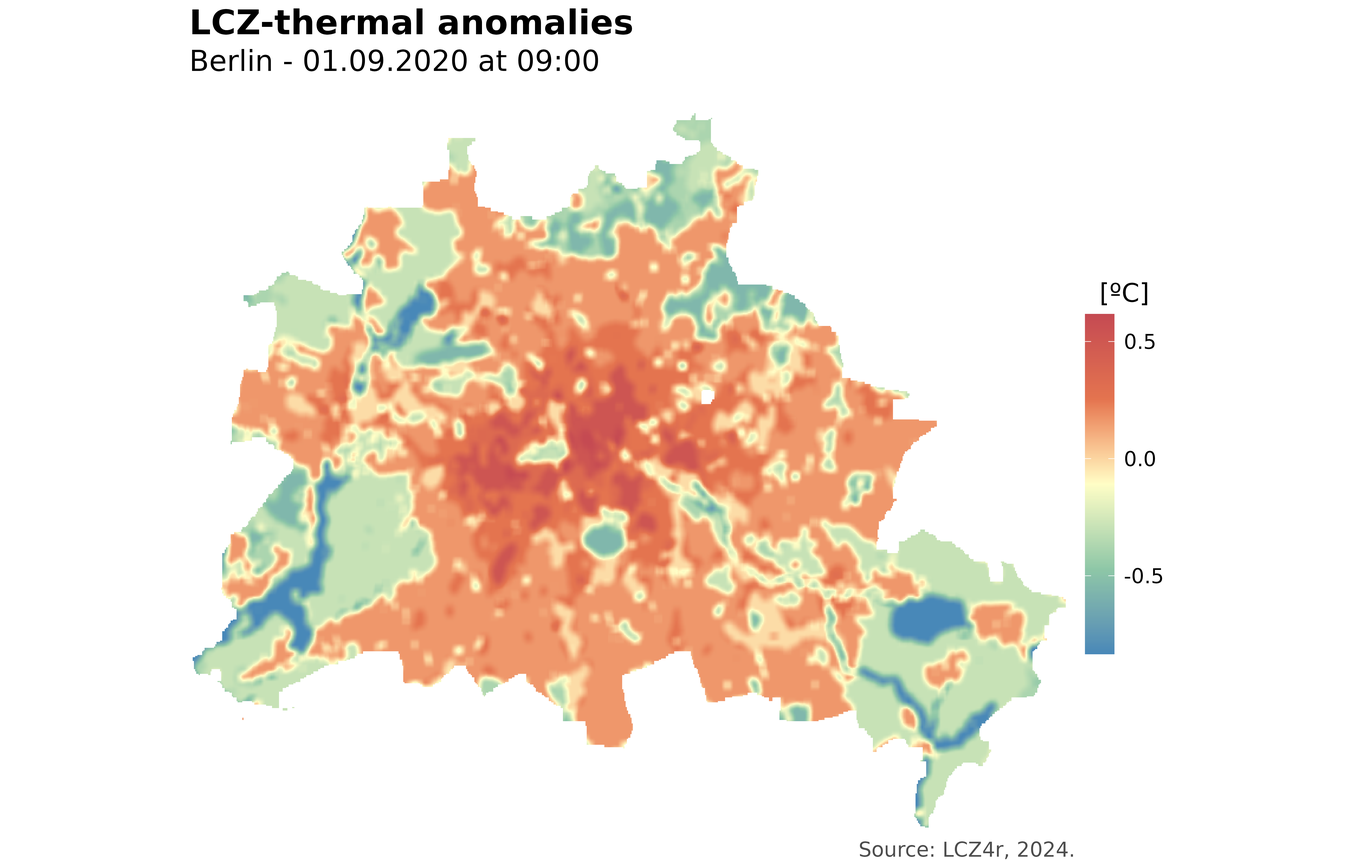
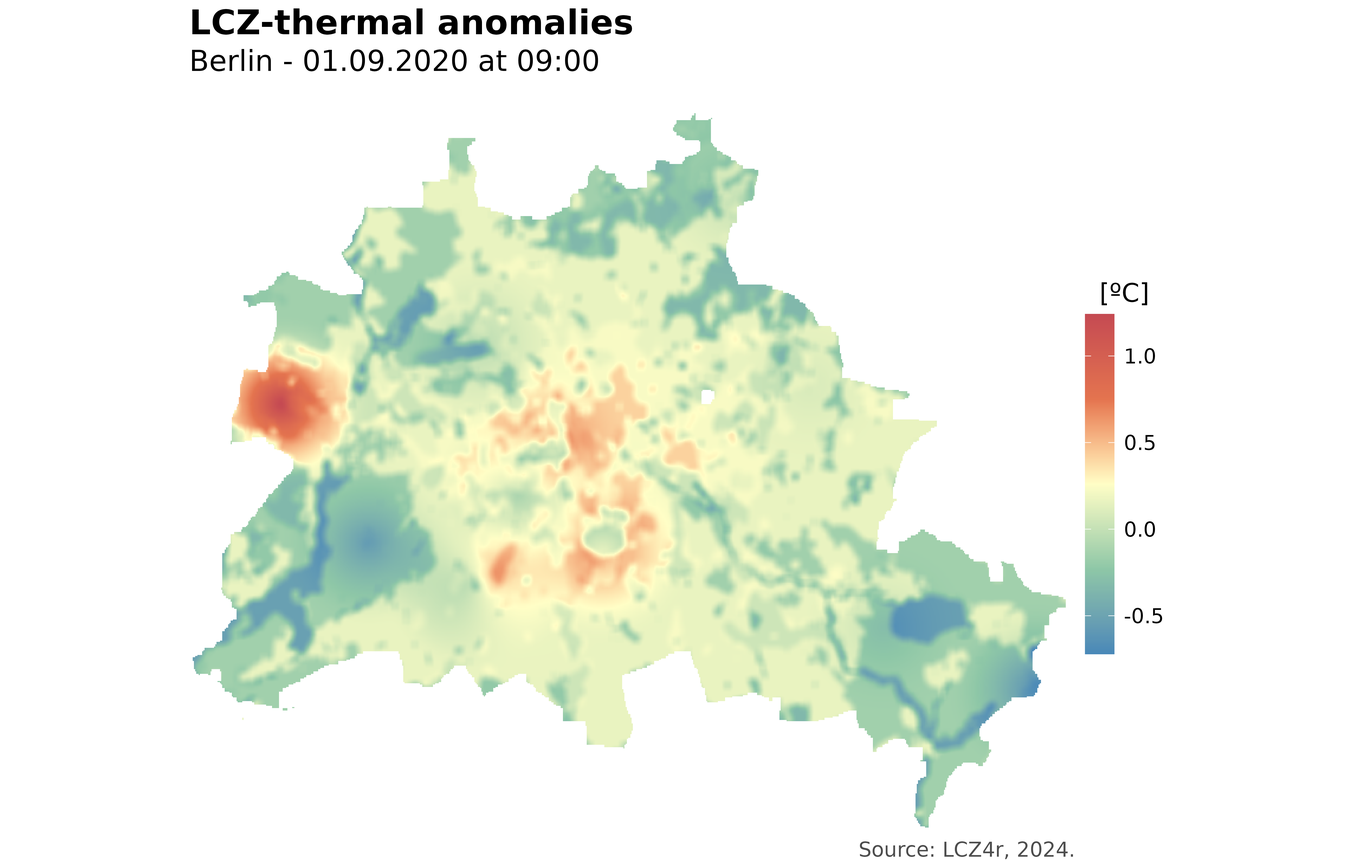
Deploying to gh-pages from @ ByMaxAnjos/LCZ4r@9018b0b6b8c74ef9807b9d81b53f13ac883edc2c 🚀

Changed region(s): [[0.1248, 0.1248, 0.8115, 0.9669]]

diff --git a/articles/Introd_local_LCZ4r.html b/articles/Introd_local_LCZ4r.html
@@ -73,7 +73,7 @@
       <img src="" class="logo" alt=""><h1>LCZ4r Local Functions</h1>
                         <h4 data-toc-skip class="author">Max Anjos</h4>
             
-            <h4 data-toc-skip class="date">May 06, 2024</h4>
+            <h4 data-toc-skip class="date">May 09, 2024</h4>
       
       <small class="dont-index">Source: <a href="https://github.com/ByMaxAnjos/LCZ4r/blob/HEAD/vignettes/Introd_local_LCZ4r.Rmd" class="external-link"><code>vignettes/Introd_local_LCZ4r.Rmd</code></a></small>
       <div class="d-none name"><code>Introd_local_LCZ4r.Rmd</code></div>
@@ -208,8 +208,10 @@ perform hourly frequency analysis of air temperature for the years
 <span><span class="co">#&gt; Congratulations! You've successfully got Berlin LCZ map.</span></span>
 <span></span>
 <span><span class="co">#Let's get LCZ air temperature time series</span></span>
-<span><span class="fu"><a href="../reference/lcz_ts.html">lcz_ts</a></span><span class="op">(</span><span class="va">lcz_map</span>, data_frame <span class="op">=</span> <span class="va">lcz_data</span>, </span>
-<span>       var <span class="op">=</span> <span class="st">"airT"</span>, station_id <span class="op">=</span> <span class="st">"station"</span>,</span>
+<span><span class="fu"><a href="../reference/lcz_ts.html">lcz_ts</a></span><span class="op">(</span><span class="va">lcz_map</span>, </span>
+<span>       data_frame <span class="op">=</span> <span class="va">lcz_data</span>, </span>
+<span>       var <span class="op">=</span> <span class="st">"airT"</span>, </span>
+<span>       station_id <span class="op">=</span> <span class="st">"station"</span>,</span>
 <span>       time.freq <span class="op">=</span> <span class="st">"month"</span><span class="op">)</span> <span class="co"># Monthly temporal frequency. Let's change to "hour, "day", "week", and so on.</span></span>
 <span><span class="co">#&gt; Congrats! You've successfully performed a month time series based on LCZ classes.</span></span></code></pre></div>
 <p><img src="Introd_local_LCZ4r_files/figure-html/unnamed-chunk-3-1.png" width="3300"></p>
@@ -263,8 +265,10 @@ window or site</strong>.</p>
 <div class="sourceCode" id="cb5"><pre class="downlit sourceCode r">
 <code class="sourceCode R"><span></span>
 <span><span class="co"># If you want the thermal anomalies 1 sept 2020 on hourly basis.</span></span>
-<span><span class="fu"><a href="../reference/lcz_anomaly.html">lcz_anomaly</a></span><span class="op">(</span><span class="va">lcz_map</span>, data_frame <span class="op">=</span> <span class="va">lcz_data</span>, </span>
-<span>            var <span class="op">=</span> <span class="st">"airT"</span>, station_id <span class="op">=</span> <span class="st">"station"</span>, </span>
+<span><span class="fu"><a href="../reference/lcz_anomaly.html">lcz_anomaly</a></span><span class="op">(</span><span class="va">lcz_map</span>, </span>
+<span>            data_frame <span class="op">=</span> <span class="va">lcz_data</span>, </span>
+<span>            var <span class="op">=</span> <span class="st">"airT"</span>, </span>
+<span>            station_id <span class="op">=</span> <span class="st">"station"</span>, </span>
 <span>            time.freq <span class="op">=</span> <span class="st">"hour"</span>, <span class="co">#Let's change the frequency to "day", "month", "year"</span></span>
 <span>            year <span class="op">=</span> <span class="fl">2020</span>, month <span class="op">=</span> <span class="fl">9</span>, day <span class="op">=</span> <span class="fl">1</span><span class="op">)</span></span>
 <span><span class="co">#&gt; You've successfully generated anomalies based on LCZ classes.</span></span></code></pre></div>
@@ -273,7 +277,8 @@ window or site</strong>.</p>
 <code class="sourceCode R"><span></span>
 <span><span class="co"># If you want the thermal anomalies by months of 2020 on daily basis.</span></span>
 <span><span class="fu"><a href="../reference/lcz_anomaly.html">lcz_anomaly</a></span><span class="op">(</span><span class="va">lcz_map</span>, data_frame <span class="op">=</span> <span class="va">lcz_data</span>, </span>
-<span>            var <span class="op">=</span> <span class="st">"airT"</span>, station_id <span class="op">=</span> <span class="st">"station"</span>, </span>
+<span>            var <span class="op">=</span> <span class="st">"airT"</span>, </span>
+<span>            station_id <span class="op">=</span> <span class="st">"station"</span>, </span>
 <span>            time.freq <span class="op">=</span> <span class="st">"day"</span>, <span class="co">#Let's change the frequency to "day", "month", "year"</span></span>
 <span>            year <span class="op">=</span> <span class="fl">2020</span>, by <span class="op">=</span> <span class="st">"month"</span><span class="op">)</span></span>
 <span><span class="co">#&gt; You've successfully generated anomalies by month based on LCZ classes.</span></span></code></pre></div>
@@ -285,25 +290,25 @@ window or site</strong>.</p>
 <p>If you’re still with us and everything is running rightly, you can
 proceed to generate a map of LCZ thermal anomalies using the
 <code><a href="../reference/lcz_anomaly_map.html">lcz_anomaly_map()</a></code> function. This function employs
-interpolation techniques such as Kriging and IDW to calculate and
-interpolate anomalies. The settings for time frequency and data
-splitting, as utilized in the <code>lcz_ts</code> and
-<code><a href="../reference/lcz_anomaly.html">lcz_anomaly()</a></code> functions, remain relatively unchanged. But,
-there are two new arguments to consider: <strong>sp.res</strong> (the
-spatial resolution of the map in meters) and <strong>tp.res</strong>
-(the frequency at which values are averaged). The
-<code>lcz_anomaly_map</code> function returns either a single raster
-file or a stack of raster files. Subsequently, you can visualize the
-anomaly map using the <code><a href="../reference/lcz_plot_interp.html">lcz_plot_interp()</a></code> function.</p>
+interpolation techniques such as Kriging ato calculate and interpolate
+anomalies. The settings for time frequency and data splitting, as
+utilized in the <code>lcz_ts</code> and <code><a href="../reference/lcz_anomaly.html">lcz_anomaly()</a></code>
+functions, remain relatively unchanged. But, there are two new arguments
+to consider: <strong>sp.res</strong> (the spatial resolution of the map
+in meters) and <strong>tp.res</strong> (the frequency at which values
+are averaged). The <code>lcz_anomaly_map</code> function returns either
+a single raster file or a stack of raster files. Subsequently, you can
+visualize the anomaly map using the <code><a href="../reference/lcz_plot_interp.html">lcz_plot_interp()</a></code>
+function.</p>
 <div class="sourceCode" id="cb7"><pre class="downlit sourceCode r">
 <code class="sourceCode R"><span></span>
 <span><span class="co">#Mapping anomalies for 1st Sep 2020 at 09:00h using kriging</span></span>
 <span><span class="va">my_anomaly_map</span> <span class="op">&lt;-</span> <span class="fu"><a href="../reference/lcz_anomaly_map.html">lcz_anomaly_map</a></span><span class="op">(</span><span class="va">lcz_map</span>,</span>
-<span>                                data_frame <span class="op">=</span> <span class="va">lcz_data</span>, var <span class="op">=</span> <span class="st">"airT"</span>, station_id <span class="op">=</span> <span class="st">"station"</span>,</span>
+<span>                                data_frame <span class="op">=</span> <span class="va">lcz_data</span>, </span>
+<span>                                var <span class="op">=</span> <span class="st">"airT"</span>, station_id <span class="op">=</span> <span class="st">"station"</span>,</span>
 <span>                                sp.res <span class="op">=</span> <span class="fl">100</span>, tp.res <span class="op">=</span> <span class="st">"hour"</span>,</span>
-<span>                                year <span class="op">=</span> <span class="fl">2020</span>, month <span class="op">=</span> <span class="fl">9</span>, day <span class="op">=</span> <span class="fl">1</span>, hour <span class="op">=</span> <span class="fl">9</span>,</span>
-<span>                                method <span class="op">=</span> <span class="st">"kriging"</span><span class="op">)</span></span>
-<span><span class="co">#&gt; [ordinary or weighted least squares prediction]</span></span>
+<span>                                year <span class="op">=</span> <span class="fl">2020</span>, month <span class="op">=</span> <span class="fl">9</span>, day <span class="op">=</span> <span class="fl">1</span>, hour <span class="op">=</span> <span class="fl">9</span></span>
+<span>                                <span class="op">)</span></span>
 <span><span class="co">#&gt; That's cool! Let's explore your LCZ anomaly map.</span></span>
 <span></span>
 <span><span class="co">#Plot anomaly map. Note that the argument ... is used to title etc..</span></span>
@@ -317,13 +322,13 @@ anomaly map using the <code><a href="../reference/lcz_plot_interp.html">lcz_plot
 <code class="sourceCode R"><span></span>
 <span><span class="co"># Active the by argument! Mapping daytime and nighttime anomalies for 1st Sep 2020</span></span>
 <span><span class="va">my_anomlay_daylight</span> <span class="op">&lt;-</span> <span class="fu"><a href="../reference/lcz_anomaly_map.html">lcz_anomaly_map</a></span><span class="op">(</span><span class="va">lcz_map</span>,</span>
-<span>                              data_frame <span class="op">=</span> <span class="va">lcz_data</span>, var <span class="op">=</span> <span class="st">"airT"</span>, station_id <span class="op">=</span> <span class="st">"station"</span>,</span>
-<span>                              sp.res <span class="op">=</span> <span class="fl">100</span>, tp.res <span class="op">=</span> <span class="st">"hour"</span>,</span>
+<span>                              data_frame <span class="op">=</span> <span class="va">lcz_data</span>, </span>
+<span>                              var <span class="op">=</span> <span class="st">"airT"</span>, </span>
+<span>                              station_id <span class="op">=</span> <span class="st">"station"</span>,</span>
+<span>                              sp.res <span class="op">=</span> <span class="fl">100</span>, </span>
+<span>                              tp.res <span class="op">=</span> <span class="st">"hour"</span>,</span>
 <span>                              year <span class="op">=</span> <span class="fl">2020</span>, month <span class="op">=</span> <span class="fl">9</span>, day <span class="op">=</span> <span class="fl">1</span>,</span>
-<span>                              by<span class="op">=</span><span class="st">"daylight"</span>,</span>
-<span>                              method <span class="op">=</span> <span class="st">"kriging"</span><span class="op">)</span></span>
-<span><span class="co">#&gt; [ordinary or weighted least squares prediction]</span></span>
-<span><span class="co">#&gt; [ordinary or weighted least squares prediction]</span></span>
+<span>                              by<span class="op">=</span><span class="st">"daylight"</span><span class="op">)</span></span>
 <span><span class="co">#&gt; That's cool! Let's explore your LCZ anomaly map.</span></span>
 <span></span>
 <span><span class="va">my_anomlay_daylight</span></span>
@@ -333,9 +338,9 @@ anomaly map using the <code><a href="../reference/lcz_plot_interp.html">lcz_plot
 <span><span class="co">#&gt; extent      : 1457000, 1531900, 6861482, 6923182  (xmin, xmax, ymin, ymax)</span></span>
 <span><span class="co">#&gt; coord. ref. : WGS 84 / Pseudo-Mercator (EPSG:3857) </span></span>
 <span><span class="co">#&gt; source(s)   : memory</span></span>
-<span><span class="co">#&gt; names       : krige_20200901050000_daylight, krige_20200901_nighttime </span></span>
-<span><span class="co">#&gt; min values  :                    -0.9652088,                -2.344815 </span></span>
-<span><span class="co">#&gt; max values  :                     0.7134152,                 1.733124</span></span>
+<span><span class="co">#&gt; names       : krige_20200901050000, krige_20200901 </span></span>
+<span><span class="co">#&gt; min values  :           -0.8203538,      -2.364962 </span></span>
+<span><span class="co">#&gt; max values  :            0.8272428,       2.898706</span></span>
 <span></span>
 <span><span class="co">#Plot anomaly map. Note that I renamed the raster layers</span></span>
 <span><span class="fu"><a href="https://rdrr.io/r/base/names.html" class="external-link">names</a></span><span class="op">(</span><span class="va">my_anomlay_daylight</span><span class="op">)</span> <span class="op">&lt;-</span> <span class="fu"><a href="https://rdrr.io/r/base/c.html" class="external-link">c</a></span><span class="op">(</span><span class="st">"daytime"</span>, <span class="st">"nighttime"</span><span class="op">)</span></span>
@@ -355,16 +360,16 @@ anomaly map using the <code><a href="../reference/lcz_plot_interp.html">lcz_plot
 <code><a href="../reference/lcz_anomaly_map.html">lcz_anomaly_map()</a></code>.</p>
 <div class="sourceCode" id="cb9"><pre class="downlit sourceCode r">
 <code class="sourceCode R"><span></span>
-<span><span class="va">my_interp_map</span> <span class="op">&lt;-</span> <span class="fu"><a href="../reference/lcz_interp_map.html">lcz_interp_map</a></span><span class="op">(</span><span class="va">lcz_map</span>,</span>
-<span>                           data_frame <span class="op">=</span> <span class="va">lcz_data</span>, var <span class="op">=</span> <span class="st">"airT"</span>, station_id <span class="op">=</span> <span class="st">"station"</span>,</span>
-<span>                           sp.res <span class="op">=</span> <span class="fl">100</span>, tp.res <span class="op">=</span> <span class="st">"hour"</span>,</span>
-<span>                           year <span class="op">=</span> <span class="fl">2019</span>, month <span class="op">=</span> <span class="fl">2</span>, day<span class="op">=</span><span class="fl">6</span>, hour<span class="op">=</span><span class="fl">5</span>,</span>
-<span>                           method <span class="op">=</span> <span class="st">"kriging"</span>,</span>
-<span>                           isave <span class="op">=</span> <span class="cn">FALSE</span><span class="op">)</span></span>
-<span><span class="co">#&gt; [ordinary or weighted least squares prediction]</span></span>
+<span><span class="va">air_map</span> <span class="op">&lt;-</span> <span class="fu"><a href="../reference/lcz_interp_map.html">lcz_interp_map</a></span><span class="op">(</span><span class="va">lcz_map</span>,</span>
+<span>                          data_frame <span class="op">=</span> <span class="va">lcz_data</span>,</span>
+<span>                          var <span class="op">=</span> <span class="st">"airT"</span>,</span>
+<span>                          station_id <span class="op">=</span> <span class="st">"station"</span>,</span>
+<span>                          sp.res <span class="op">=</span> <span class="fl">500</span>,</span>
+<span>                          tp.res <span class="op">=</span> <span class="st">"hour"</span>,</span>
+<span>                          year <span class="op">=</span> <span class="fl">2019</span>, month <span class="op">=</span> <span class="fl">2</span>, day<span class="op">=</span><span class="fl">6</span>, hour<span class="op">=</span><span class="fl">5</span>,</span>
+<span>                          LCZinterp <span class="op">=</span> <span class="cn">TRUE</span><span class="op">)</span></span>
 <span><span class="co">#&gt; That's cool! Let's explore your LCZ interp map.</span></span>
-<span></span>
-<span><span class="fu"><a href="../reference/lcz_plot_interp.html">lcz_plot_interp</a></span><span class="op">(</span><span class="va">my_interp_map</span><span class="op">)</span></span></code></pre></div>
+<span><span class="fu"><a href="../reference/lcz_plot_interp.html">lcz_plot_interp</a></span><span class="op">(</span><span class="va">air_map</span><span class="op">)</span></span></code></pre></div>
 <p><img src="Introd_local_LCZ4r_files/figure-html/unnamed-chunk-10-1.png" width="3300"></p>
 </div>
 <div class="section level2">

diff --git a/reference/lcz_interp_map.html b/reference/lcz_interp_map.html
@@ -1,5 +1,5 @@
 <!DOCTYPE html>
-<!-- Generated by pkgdown: do not edit by hand --><html lang="en"><head><meta http-equiv="Content-Type" content="text/html; charset=UTF-8"><meta charset="utf-8"><meta http-equiv="X-UA-Compatible" content="IE=edge"><meta name="viewport" content="width=device-width, initial-scale=1, shrink-to-fit=no"><meta name="description" content="This function generates a spatial interpolation of any air temperature (or other variable) for different Local Climate Zones (LCZs). More details: https://bymaxanjos.github.io/LCZ4r/articles/Introd_local_LCZ4r.html"><title>Visualize the LCZ - interpolated map — lcz_interp_map • LCZ4r</title><script src="../deps/jquery-3.6.0/jquery-3.6.0.min.js"></script><meta name="viewport" content="width=device-width, initial-scale=1, shrink-to-fit=no"><link href="../deps/bootstrap-5.3.1/bootstrap.min.css" rel="stylesheet"><script src="../deps/bootstrap-5.3.1/bootstrap.bundle.min.js"></script><!-- Font Awesome icons --><link rel="stylesheet" href="https://cdnjs.cloudflare.com/ajax/libs/font-awesome/5.12.1/css/all.min.css" integrity="sha256-mmgLkCYLUQbXn0B1SRqzHar6dCnv9oZFPEC1g1cwlkk=" crossorigin="anonymous"><link rel="stylesheet" href="https://cdnjs.cloudflare.com/ajax/libs/font-awesome/5.12.1/css/v4-shims.min.css" integrity="sha256-wZjR52fzng1pJHwx4aV2AO3yyTOXrcDW7jBpJtTwVxw=" crossorigin="anonymous"><!-- bootstrap-toc --><script src="https://cdn.jsdelivr.net/gh/afeld/bootstrap-toc@v1.0.1/dist/bootstrap-toc.min.js" integrity="sha256-4veVQbu7//Lk5TSmc7YV48MxtMy98e26cf5MrgZYnwo=" crossorigin="anonymous"></script><!-- headroom.js --><script src="https://cdnjs.cloudflare.com/ajax/libs/headroom/0.11.0/headroom.min.js" integrity="sha256-AsUX4SJE1+yuDu5+mAVzJbuYNPHj/WroHuZ8Ir/CkE0=" crossorigin="anonymous"></script><script src="https://cdnjs.cloudflare.com/ajax/libs/headroom/0.11.0/jQuery.headroom.min.js" integrity="sha256-ZX/yNShbjqsohH1k95liqY9Gd8uOiE1S4vZc+9KQ1K4=" crossorigin="anonymous"></script><!-- clipboard.js --><script src="https://cdnjs.cloudflare.com/ajax/libs/clipboard.js/2.0.11/clipboard.min.js" integrity="sha512-7O5pXpc0oCRrxk8RUfDYFgn0nO1t+jLuIOQdOMRp4APB7uZ4vSjspzp5y6YDtDs4VzUSTbWzBFZ/LKJhnyFOKw==" crossorigin="anonymous" referrerpolicy="no-referrer"></script><!-- search --><script src="https://cdnjs.cloudflare.com/ajax/libs/fuse.js/6.4.6/fuse.js" integrity="sha512-zv6Ywkjyktsohkbp9bb45V6tEMoWhzFzXis+LrMehmJZZSys19Yxf1dopHx7WzIKxr5tK2dVcYmaCk2uqdjF4A==" crossorigin="anonymous"></script><script src="https://cdnjs.cloudflare.com/ajax/libs/autocomplete.js/0.38.0/autocomplete.jquery.min.js" integrity="sha512-GU9ayf+66Xx2TmpxqJpliWbT5PiGYxpaG8rfnBEk1LL8l1KGkRShhngwdXK1UgqhAzWpZHSiYPc09/NwDQIGyg==" crossorigin="anonymous"></script><script src="https://cdnjs.cloudflare.com/ajax/libs/mark.js/8.11.1/mark.min.js" integrity="sha512-5CYOlHXGh6QpOFA/TeTylKLWfB3ftPsde7AnmhuitiTX4K5SqCLBeKro6sPS8ilsz1Q4NRx3v8Ko2IBiszzdww==" crossorigin="anonymous"></script><!-- pkgdown --><script src="../pkgdown.js"></script><meta property="og:title" content="Visualize the LCZ - interpolated map — lcz_interp_map"><meta property="og:description" content="This function generates a spatial interpolation of any air temperature (or other variable) for different Local Climate Zones (LCZs). More details: https://bymaxanjos.github.io/LCZ4r/articles/Introd_local_LCZ4r.html"><!-- mathjax --><script src="https://cdnjs.cloudflare.com/ajax/libs/mathjax/2.7.5/MathJax.js" integrity="sha256-nvJJv9wWKEm88qvoQl9ekL2J+k/RWIsaSScxxlsrv8k=" crossorigin="anonymous"></script><script src="https://cdnjs.cloudflare.com/ajax/libs/mathjax/2.7.5/config/TeX-AMS-MML_HTMLorMML.js" integrity="sha256-84DKXVJXs0/F8OTMzX4UR909+jtl4G7SPypPavF+GfA=" crossorigin="anonymous"></script><!--[if lt IE 9]>
+<!-- Generated by pkgdown: do not edit by hand --><html lang="en"><head><meta http-equiv="Content-Type" content="text/html; charset=UTF-8"><meta charset="utf-8"><meta http-equiv="X-UA-Compatible" content="IE=edge"><meta name="viewport" content="width=device-width, initial-scale=1, shrink-to-fit=no"><meta name="description" content="This function generates a spatial interpolation of air temperature (or other variable) using Local Climate Zones (LCZs) and Kriging. More details: https://bymaxanjos.github.io/LCZ4r/articles/Introd_local_LCZ4r.html"><title>Visualize the LCZ - interpolated map — lcz_interp_map • LCZ4r</title><script src="../deps/jquery-3.6.0/jquery-3.6.0.min.js"></script><meta name="viewport" content="width=device-width, initial-scale=1, shrink-to-fit=no"><link href="../deps/bootstrap-5.3.1/bootstrap.min.css" rel="stylesheet"><script src="../deps/bootstrap-5.3.1/bootstrap.bundle.min.js"></script><!-- Font Awesome icons --><link rel="stylesheet" href="https://cdnjs.cloudflare.com/ajax/libs/font-awesome/5.12.1/css/all.min.css" integrity="sha256-mmgLkCYLUQbXn0B1SRqzHar6dCnv9oZFPEC1g1cwlkk=" crossorigin="anonymous"><link rel="stylesheet" href="https://cdnjs.cloudflare.com/ajax/libs/font-awesome/5.12.1/css/v4-shims.min.css" integrity="sha256-wZjR52fzng1pJHwx4aV2AO3yyTOXrcDW7jBpJtTwVxw=" crossorigin="anonymous"><!-- bootstrap-toc --><script src="https://cdn.jsdelivr.net/gh/afeld/bootstrap-toc@v1.0.1/dist/bootstrap-toc.min.js" integrity="sha256-4veVQbu7//Lk5TSmc7YV48MxtMy98e26cf5MrgZYnwo=" crossorigin="anonymous"></script><!-- headroom.js --><script src="https://cdnjs.cloudflare.com/ajax/libs/headroom/0.11.0/headroom.min.js" integrity="sha256-AsUX4SJE1+yuDu5+mAVzJbuYNPHj/WroHuZ8Ir/CkE0=" crossorigin="anonymous"></script><script src="https://cdnjs.cloudflare.com/ajax/libs/headroom/0.11.0/jQuery.headroom.min.js" integrity="sha256-ZX/yNShbjqsohH1k95liqY9Gd8uOiE1S4vZc+9KQ1K4=" crossorigin="anonymous"></script><!-- clipboard.js --><script src="https://cdnjs.cloudflare.com/ajax/libs/clipboard.js/2.0.11/clipboard.min.js" integrity="sha512-7O5pXpc0oCRrxk8RUfDYFgn0nO1t+jLuIOQdOMRp4APB7uZ4vSjspzp5y6YDtDs4VzUSTbWzBFZ/LKJhnyFOKw==" crossorigin="anonymous" referrerpolicy="no-referrer"></script><!-- search --><script src="https://cdnjs.cloudflare.com/ajax/libs/fuse.js/6.4.6/fuse.js" integrity="sha512-zv6Ywkjyktsohkbp9bb45V6tEMoWhzFzXis+LrMehmJZZSys19Yxf1dopHx7WzIKxr5tK2dVcYmaCk2uqdjF4A==" crossorigin="anonymous"></script><script src="https://cdnjs.cloudflare.com/ajax/libs/autocomplete.js/0.38.0/autocomplete.jquery.min.js" integrity="sha512-GU9ayf+66Xx2TmpxqJpliWbT5PiGYxpaG8rfnBEk1LL8l1KGkRShhngwdXK1UgqhAzWpZHSiYPc09/NwDQIGyg==" crossorigin="anonymous"></script><script src="https://cdnjs.cloudflare.com/ajax/libs/mark.js/8.11.1/mark.min.js" integrity="sha512-5CYOlHXGh6QpOFA/TeTylKLWfB3ftPsde7AnmhuitiTX4K5SqCLBeKro6sPS8ilsz1Q4NRx3v8Ko2IBiszzdww==" crossorigin="anonymous"></script><!-- pkgdown --><script src="../pkgdown.js"></script><meta property="og:title" content="Visualize the LCZ - interpolated map — lcz_interp_map"><meta property="og:description" content="This function generates a spatial interpolation of air temperature (or other variable) using Local Climate Zones (LCZs) and Kriging. More details: https://bymaxanjos.github.io/LCZ4r/articles/Introd_local_LCZ4r.html"><!-- mathjax --><script src="https://cdnjs.cloudflare.com/ajax/libs/mathjax/2.7.5/MathJax.js" integrity="sha256-nvJJv9wWKEm88qvoQl9ekL2J+k/RWIsaSScxxlsrv8k=" crossorigin="anonymous"></script><script src="https://cdnjs.cloudflare.com/ajax/libs/mathjax/2.7.5/config/TeX-AMS-MML_HTMLorMML.js" integrity="sha256-84DKXVJXs0/F8OTMzX4UR909+jtl4G7SPypPavF+GfA=" crossorigin="anonymous"></script><!--[if lt IE 9]>
 <script src="https://oss.maxcdn.com/html5shiv/3.7.3/html5shiv.min.js"></script>
 <script src="https://oss.maxcdn.com/respond/1.4.2/respond.min.js"></script>
 <![endif]--></head><body>
@@ -51,7 +51,7 @@
     </div>
 
     <div class="ref-description section level2">
-    <p>This function generates a spatial interpolation of any air temperature (or other variable) for different Local Climate Zones (LCZs). More details: https://bymaxanjos.github.io/LCZ4r/articles/Introd_local_LCZ4r.html</p>
+    <p>This function generates a spatial interpolation of air temperature (or other variable) using Local Climate Zones (LCZs) and Kriging. More details: https://bymaxanjos.github.io/LCZ4r/articles/Introd_local_LCZ4r.html</p>
     </div>
 
     <div class="section level2">
@@ -61,13 +61,14 @@
 <span>  data_frame <span class="op">=</span> <span class="st">""</span>,</span>
 <span>  var <span class="op">=</span> <span class="st">""</span>,</span>
 <span>  station_id <span class="op">=</span> <span class="st">""</span>,</span>
+<span>  <span class="va">...</span>,</span>
 <span>  sp.res <span class="op">=</span> <span class="fl">100</span>,</span>
 <span>  tp.res <span class="op">=</span> <span class="st">"hour"</span>,</span>
-<span>  method <span class="op">=</span> <span class="st">"Kriging"</span>,</span>
-<span>  <span class="va">...</span>,</span>
+<span>  vg.model <span class="op">=</span> <span class="st">"Sph"</span>,</span>
 <span>  by <span class="op">=</span> <span class="cn">NULL</span>,</span>
 <span>  impute <span class="op">=</span> <span class="cn">NULL</span>,</span>
-<span>  isave <span class="op">=</span> <span class="cn">FALSE</span></span>
+<span>  isave <span class="op">=</span> <span class="cn">FALSE</span>,</span>
+<span>  LCZinterp <span class="op">=</span> <span class="cn">TRUE</span></span>
 <span><span class="op">)</span></span></code></pre></div>
     </div>
 
@@ -89,6 +90,12 @@
 <dd><p>Name of the station ID variable in the dataframe.</p></dd>
 
 
+<dt>...</dt>
+<dd><p>Utilities from <code>selectBydata</code> from <code>openair</code> package. A start date string in the form e.g. “1/2/1999” or in format i.e. “YYYY-mm-dd”, “1999-02-01”.
+A year or years to select e.g. year = 1998:2004 to select 1998-2004 inclusive or year = c(1998, 2004) to select 1998 and 2004. A month or months to select.
+Can either be numeric e.g. month = 1:6 to select months 1-6 (January to June), or by name e.g. month = c(“January”, “December”).</p></dd>
+
+
 <dt>sp.res</dt>
 <dd><p>Spatial resolution in unit of meters for interpolation. Default is 100.</p></dd>
 
@@ -97,14 +104,8 @@
 <dd><p>Temporal resolution, the time period to average to. Default is “hour”, but includes “day”, “week”, “month” or “year”.</p></dd>
 
 
-<dt>method</dt>
-<dd><p>Statistical technique used in the interpolation, such as kriging and IDW. Default is "kriging".</p></dd>
-
-
-<dt>...</dt>
-<dd><p>Utilities from <code>selectBydata</code> from <code>openair</code> package. A start date string in the form e.g. “1/2/1999” or in format i.e. “YYYY-mm-dd”, “1999-02-01”.
-A year or years to select e.g. year = 1998:2004 to select 1998-2004 inclusive or year = c(1998, 2004) to select 1998 and 2004. A month or months to select.
-Can either be numeric e.g. month = 1:6 to select months 1-6 (January to June), or by name e.g. month = c(“January”, “December”).</p></dd>
+<dt>vg.model</dt>
+<dd><p>If kriging is selected, the list of viogrammodels that will be tested and interpolated with kriging. Default is "Sph". The model are "Sph", "Exp", "Gau", "Ste". They names respective shperical, exponential,gaussian,Matern familiy, Matern, M. Stein's parameterization.</p></dd>
 
 
 <dt>by</dt>
@@ -118,6 +119,10 @@ Can either be numeric e.g. month = 1:6 to select months 1-6 (January to June), o
 
 <dt>isave</dt>
 <dd><p>Save the plot into your directory.</p></dd>
+
+
+<dt>LCZinterp</dt>
+<dd><p>If set to TRUE (default), the LCZ interpolation approach is used. If set to FALSE, conventional interpolation without LCZ is used.</p></dd>
 
 </dl></div>
     <div class="section level2">
@@ -136,7 +141,7 @@ Can either be numeric e.g. month = 1:6 to select months 1-6 (January to June), o
     <div class="sourceCode"><pre class="sourceCode r"><code><span class="r-in"><span></span></span>
 <span class="r-in"><span><span class="co"># Daily air temperature values in September 2019 .</span></span></span>
 <span class="r-in"><span> <span class="co">#my_interp &lt;- lcz_interp_map(lcz_map, data_frame = lcz_data, var = "airT",</span></span></span>
-<span class="r-in"><span> <span class="co">#                              station_id = "station", tp.res = "day", sp.res= "100",</span></span></span>
+<span class="r-in"><span> <span class="co">#                              station_id = "station", tp.res = "day", sp.res= 100,</span></span></span>
 <span class="r-in"><span> <span class="co">#                              year = 2019, month=9)</span></span></span>
 <span class="r-in"></span>
 </code></pre></div>

diff --git a/reference/lcz_anomaly_map.html b/reference/lcz_anomaly_map.html
@@ -61,13 +61,14 @@
 <span>  data_frame <span class="op">=</span> <span class="st">""</span>,</span>
 <span>  var <span class="op">=</span> <span class="st">""</span>,</span>
 <span>  station_id <span class="op">=</span> <span class="st">""</span>,</span>
+<span>  <span class="va">...</span>,</span>
 <span>  sp.res <span class="op">=</span> <span class="fl">100</span>,</span>
 <span>  tp.res <span class="op">=</span> <span class="st">"hour"</span>,</span>
-<span>  method <span class="op">=</span> <span class="st">"kriging"</span>,</span>
-<span>  <span class="va">...</span>,</span>
+<span>  vg.model <span class="op">=</span> <span class="st">"Sph"</span>,</span>
 <span>  by <span class="op">=</span> <span class="cn">NULL</span>,</span>
 <span>  impute <span class="op">=</span> <span class="cn">NULL</span>,</span>
-<span>  isave <span class="op">=</span> <span class="cn">FALSE</span></span>
+<span>  isave <span class="op">=</span> <span class="cn">FALSE</span>,</span>
+<span>  LCZinterp <span class="op">=</span> <span class="cn">TRUE</span></span>
 <span><span class="op">)</span></span></code></pre></div>
     </div>
 
@@ -89,6 +90,12 @@
 <dd><p>Name of the station ID variable in the dataframe.</p></dd>
 
 
+<dt>...</dt>
+<dd><p>Utilities from <code>selectBydata</code> from <code>openair</code> package. A start date string in the form e.g. “1/2/1999” or in format i.e. “YYYY-mm-dd”, “1999-02-01”.
+A year or years to select e.g. year = 1998:2004 to select 1998-2004 inclusive or year = c(1998, 2004) to select 1998 and 2004. A month or months to select.
+Can either be numeric e.g. month = 1:6 to select months 1-6 (January to June), or by name e.g. month = c(“January”, “December”).</p></dd>
+
+
 <dt>sp.res</dt>
 <dd><p>Spatial resolution in unit of meters for interpolation. Default is 100.</p></dd>
 
@@ -97,14 +104,8 @@
 <dd><p>Temporal resolution, the time period to average to. Default is “hour”, but includes “day”, “week”, “month” or “year”.</p></dd>
 
 
-<dt>method</dt>
-<dd><p>Statistical technique used in the interpolation, such as kriging and IDW. Default is "kriging".</p></dd>
-
-
-<dt>...</dt>
-<dd><p>Utilities from <code>selectBydata</code> from <code>openair</code> package. A start date string in the form e.g. “1/2/1999” or in format i.e. “YYYY-mm-dd”, “1999-02-01”.
-A year or years to select e.g. year = 1998:2004 to select 1998-2004 inclusive or year = c(1998, 2004) to select 1998 and 2004. A month or months to select.
-Can either be numeric e.g. month = 1:6 to select months 1-6 (January to June), or by name e.g. month = c(“January”, “December”).</p></dd>
+<dt>vg.model</dt>
+<dd><p>If kriging is selected, the list of viogrammodels that will be tested and interpolated with kriging. Default is "Sph". The model are "Sph", "Exp", "Gau", "Ste". They names respective shperical, exponential,gaussian,Matern familiy, Matern, M. Stein's parameterization.</p></dd>
 
 
 <dt>by</dt>
@@ -118,6 +119,10 @@ Can either be numeric e.g. month = 1:6 to select months 1-6 (January to June), o
 
 <dt>isave</dt>
 <dd><p>Save the plot into your directory.</p></dd>
+
+
+<dt>LCZinterp</dt>
+<dd><p>If set to TRUE (default), the LCZ interpolation approach is used. If set to FALSE, conventional interpolation without LCZ is used.</p></dd>
 
 </dl></div>
     <div class="section level2">

diff --git a/articles/instalation_lcz4r.html b/articles/instalation_lcz4r.html
@@ -73,7 +73,7 @@
       <img src="" class="logo" alt=""><h1>Install LCZ4r and input data requirements</h1>
                         <h4 data-toc-skip class="author">Max Anjos</h4>
             
-            <h4 data-toc-skip class="date">May 06, 2024</h4>
+            <h4 data-toc-skip class="date">May 09, 2024</h4>
       
       <small class="dont-index">Source: <a href="https://github.com/ByMaxAnjos/LCZ4r/blob/HEAD/vignettes/instalation_lcz4r.Rmd" class="external-link"><code>vignettes/instalation_lcz4r.Rmd</code></a></small>
       <div class="d-none name"><code>instalation_lcz4r.Rmd</code></div>

diff --git a/articles/Introd_general_LCZ4r.html b/articles/Introd_general_LCZ4r.html
@@ -73,7 +73,7 @@
       <img src="" class="logo" alt=""><h1>LCZ4r General Functions</h1>
                         <h4 data-toc-skip class="author">Max Anjos</h4>
             
-            <h4 data-toc-skip class="date">May 06, 2024</h4>
+            <h4 data-toc-skip class="date">May 09, 2024</h4>
       
       <small class="dont-index">Source: <a href="https://github.com/ByMaxAnjos/LCZ4r/blob/HEAD/vignettes/Introd_general_LCZ4r.Rmd" class="external-link"><code>vignettes/Introd_general_LCZ4r.Rmd</code></a></small>
       <div class="d-none name"><code>Introd_general_LCZ4r.Rmd</code></div>
